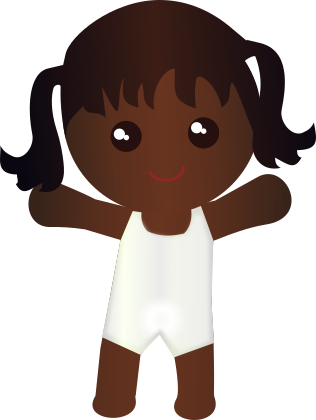
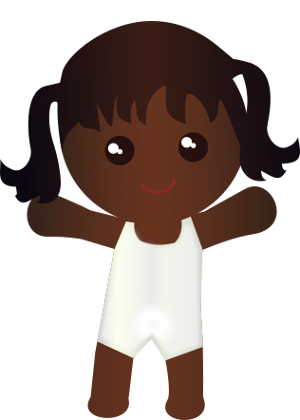
show skin color

diff --git a/website/index.html b/website/index.html
@@ -168,7 +168,10 @@
 				<div class="small-show">
 					<p>&nbsp;</p><p>&nbsp;</p><p>&nbsp;</p><p>&nbsp;</p>
 				</div>
-                <div class="embed-responsive embed-responsive-16by9">
+                <div class="col-sm-5 embed-responsive embed-responsive-16by9" style="margin-right: 20px;">
+					<iframe class="embed-responsive-item" src="https://www.youtube.com/embed/jyo5eb72Eis?rel=0" allowfullscreen></iframe>  
+				</div>
+				<div class="col-sm-5 embed-responsive embed-responsive-16by9">
 					<iframe class="embed-responsive-item" src="https://www.youtube.com/embed/Yw2JffwCJKY?rel=0" allowfullscreen></iframe>  
 				</div>
             </div>

diff --git a/website/littlefamily.css b/website/littlefamily.css
@@ -307,7 +307,8 @@ header .header-content, section .container, section .container-fluid{
 }
 
 .embed-responsive {
-	margin: 30px;
+	margin: 10px;
+	padding-bottom: 40%;
 }
 
 .partner-list {

diff --git a/LittleFamilyApp/src/main/java/com/yellowforktech/littlefamilytree/activities/HeritageDressUpActivity.java b/LittleFamilyApp/src/main/java/com/yellowforktech/littlefamilytree/activities/HeritageDressUpActivity.java
@@ -1,5 +1,7 @@
 package com.yellowforktech.littlefamilytree.activities;
 
+import android.app.AlertDialog;
+import android.content.DialogInterface;
 import android.content.Intent;
 import android.graphics.Bitmap;
 import android.graphics.BitmapFactory;
@@ -14,10 +16,12 @@ import android.view.SurfaceHolder;
 import android.view.View;
 import android.widget.ImageView;
 import android.widget.LinearLayout;
+import android.widget.ListAdapter;
 import android.widget.Space;
 import android.widget.TextView;
 
 import com.yellowforktech.littlefamilytree.R;
+import com.yellowforktech.littlefamilytree.activities.adapters.SkinListAdapter;
 import com.yellowforktech.littlefamilytree.data.LittlePerson;
 import com.yellowforktech.littlefamilytree.games.DollConfig;
 import com.yellowforktech.littlefamilytree.games.DressUpDolls;
@@ -44,6 +48,7 @@ public class HeritageDressUpActivity extends LittleFamilyActivity implements Dre
     private DressUpDolls dressUpDolls;
     private List<DollConfig> allDolls;
     private List<String> allPlaces;
+    private String skinColor;
 
     @Override
     protected void onCreate(Bundle savedInstanceState) {
@@ -73,9 +78,29 @@ public class HeritageDressUpActivity extends LittleFamilyActivity implements Dre
     }
 
     @Override
+    public void setupTopBar() {
+        if (findViewById(R.id.topBarFragment)!=null) {
+            topBar = (TopBarFragment) getSupportFragmentManager().findFragmentById(R.id.topBarFragment);
+            if (topBar == null) {
+                topBar = TopBarFragment.newInstance(selectedPerson, R.layout.fragment_top_bar_dressup);
+                getSupportFragmentManager().beginTransaction().replace(R.id.topBarFragment, topBar).commit();
+            } else {
+                if (selectedPerson != null) {
+                    topBar.getArguments().putSerializable(TopBarFragment.ARG_PERSON, selectedPerson);
+                    topBar.updatePerson(selectedPerson);
+                }
+            }
+        }
+    }
+
+    @Override
     protected void onStart() {
         super.onStart();
 
+        int skinViewResourceId = ImageHelper.getPersonDefaultImage(this, selectedPerson);
+
+        ImageView imageView = (ImageView) topBar.getView().findViewById(R.id.skinBtn);
+        imageView.setImageResource(skinViewResourceId);
 
         dressUpView.setDollConfig(dollConfig);
         dressUpView.addListener(this);
@@ -121,6 +146,31 @@ public class HeritageDressUpActivity extends LittleFamilyActivity implements Dre
         dollConfig = (DollConfig) v.getTag();
         dressUpView.setDollConfig(dollConfig);
         dollScroller.setVisibility(View.INVISIBLE);
+    }
+
+    public void changeSkin(View v) {
+        AlertDialog.Builder builder = new AlertDialog.Builder(this);
+
+        final ListAdapter adapter = new SkinListAdapter(this);
+        builder.setTitle(R.string.pref_title_skin_color)
+                .setAdapter(adapter, new DialogInterface.OnClickListener() {
+                    @Override
+                    public void onClick(DialogInterface dialog, int which) {
+                        skinColor = (String) adapter.getItem(which);
+
+                        int skinViewResourceId = ImageHelper.getPersonCartoon(selectedPerson, skinColor);
+
+                        ImageView imageView = (ImageView) topBar.getView().findViewById(R.id.skinBtn);
+                        imageView.setImageResource(skinViewResourceId);
+
+                        dollConfig.setSkinTone(skinColor);
+                        dressUpView.setDollConfig(dollConfig);
+
+                        dialog.dismiss();
+                    }
+                });
+        AlertDialog dialog = builder.create();
+        dialog.show();
     }
 
 

diff --git a/LittleFamilyApp/src/main/java/com/yellowforktech/littlefamilytree/activities/NewSettingsActivity.java b/LittleFamilyApp/src/main/java/com/yellowforktech/littlefamilytree/activities/NewSettingsActivity.java
@@ -10,14 +10,13 @@ import android.os.Bundle;
 import android.preference.PreferenceManager;
 import android.util.Log;
 import android.view.View;
-import android.view.ViewGroup;
-import android.widget.BaseAdapter;
 import android.widget.CheckBox;
 import android.widget.ImageView;
 import android.widget.ListAdapter;
 import android.widget.TextView;
 
 import com.yellowforktech.littlefamilytree.R;
+import com.yellowforktech.littlefamilytree.activities.adapters.SkinListAdapter;
 import com.yellowforktech.littlefamilytree.data.DataService;
 import com.yellowforktech.littlefamilytree.data.LittlePerson;
 
@@ -186,7 +185,7 @@ public class NewSettingsActivity extends Activity {
     public void onChooseSkin(View view) {
         AlertDialog.Builder builder = new AlertDialog.Builder(this);
 
-        final ListAdapter adapter = new SkinListAdapter();
+        final ListAdapter adapter = new SkinListAdapter(this);
         builder.setTitle(R.string.pref_title_skin_color)
                 .setAdapter(adapter, new DialogInterface.OnClickListener() {
                     @Override
@@ -214,42 +213,4 @@ public class NewSettingsActivity extends Activity {
         dialog.show();
     }
 
-    class SkinListAdapter extends BaseAdapter {
-
-        int[] items = {R.drawable.boy, R.drawable.boy_mid, R.drawable.boy_dark};
-        String[] prefs = {"light", "mid", "dark"};
-
-        @Override
-        public int getCount() {
-            return items.length;
-        }
-
-        @Override
-        public Object getItem(int position) {
-            return prefs[position];
-        }
-
-        @Override
-        public long getItemId(int position) {
-            return position;
-        }
-
-        @Override
-        public View getView(int position, View convertView, ViewGroup parent) {
-            ImageView view = null;
-            if (convertView!=null) {
-                view = (ImageView) convertView.getTag();
-            }
-
-            if (view==null) {
-                view = new ImageView(NewSettingsActivity.this);
-                convertView.setTag(view);
-            }
-
-            int resourceId = items[position];
-            view.setImageResource(resourceId);
-
-            return view;
-        }
-    }
 }

diff --git a/LittleFamilyApp/src/main/java/com/yellowforktech/littlefamilytree/activities/adapters/SkinListAdapter.java b/LittleFamilyApp/src/main/java/com/yellowforktech/littlefamilytree/activities/adapters/SkinListAdapter.java
@@ -1,0 +1,56 @@
+package com.yellowforktech.littlefamilytree.activities.adapters;
+
+import android.content.Context;
+import android.view.View;
+import android.view.ViewGroup;
+import android.widget.BaseAdapter;
+import android.widget.ImageView;
+
+import com.yellowforktech.littlefamilytree.R;
+
+/**
+ * Created by john on 1/17/2017.
+ */
+public class SkinListAdapter extends BaseAdapter {
+
+    private Context context;
+
+    public SkinListAdapter(Context context) {
+        this.context = context;
+    }
+
+    int[] items = {R.drawable.boy, R.drawable.boy_mid, R.drawable.boy_dark};
+    String[] prefs = {"light", "mid", "dark"};
+
+    @Override
+    public int getCount() {
+        return items.length;
+    }
+
+    @Override
+    public Object getItem(int position) {
+        return prefs[position];
+    }
+
+    @Override
+    public long getItemId(int position) {
+        return position;
+    }
+
+    @Override
+    public View getView(int position, View convertView, ViewGroup parent) {
+        ImageView view = null;
+        if (convertView != null) {
+            view = (ImageView) convertView;
+        }
+
+        if (view == null) {
+            view = new ImageView(context);
+        }
+
+        int resourceId = items[position];
+        view.setImageResource(resourceId);
+
+        return view;
+    }
+}

diff --git a/LittleFamilyApp/src/main/java/com/yellowforktech/littlefamilytree/views/BirthdayCardSurfaceView.java b/LittleFamilyApp/src/main/java/com/yellowforktech/littlefamilytree/views/BirthdayCardSurfaceView.java
@@ -466,7 +466,7 @@ public class BirthdayCardSurfaceView extends SpritedSurfaceView implements Event
                             photo = ImageHelper.loadBitmapFromFile(p.getPhotoPath(), ImageHelper.getOrientation(p.getPhotoPath()), width, width, false);
                         }
                         if (photo == null) {
-                            photo = ImageHelper.loadBitmapFromResource(activity, p.getDefaultPhotoResource(), 0, width, width);
+                            photo = ImageHelper.loadBitmapFromResource(activity, ImageHelper.getPersonDefaultImage(context, p), 0, width, width);
                         }
                         float ratio = (float)(photo.getWidth()) / (float)(photo.getHeight());
                         int tw = (int) (vanityTop.getWidth() / 7f);

diff --git a/LittleFamilyApp/src/main/java/com/yellowforktech/littlefamilytree/util/ImageHelper.java b/LittleFamilyApp/src/main/java/com/yellowforktech/littlefamilytree/util/ImageHelper.java
@@ -512,6 +512,10 @@ public class ImageHelper {
 
     public static int getPersonDefaultImage(Context context, LittlePerson person) {
         String skinColor = PreferenceManager.getDefaultSharedPreferences(context).getString("skin_color", "light");
+        return getPersonCartoon(person, skinColor);
+    }
+
+    public static int getPersonCartoon(LittlePerson person, String skinColor) {
         if (person.getAge()!=null) {
             if (person.getAge() < 2) {
                 switch(skinColor) {

diff --git a/LittleFamilyApp/src/main/java/com/yellowforktech/littlefamilytree/activities/LittleFamilyActivity.java b/LittleFamilyApp/src/main/java/com/yellowforktech/littlefamilytree/activities/LittleFamilyActivity.java
@@ -498,7 +498,7 @@ public class LittleFamilyActivity extends FragmentActivity implements TextToSpee
         } catch (Exception e) {
             e.printStackTrace();
         }
-        return tries;
+        return 10;
     }
 
     public void onHomeButtonPressed(View view) {
